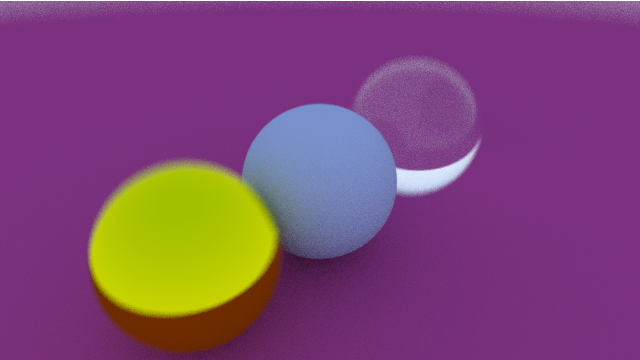
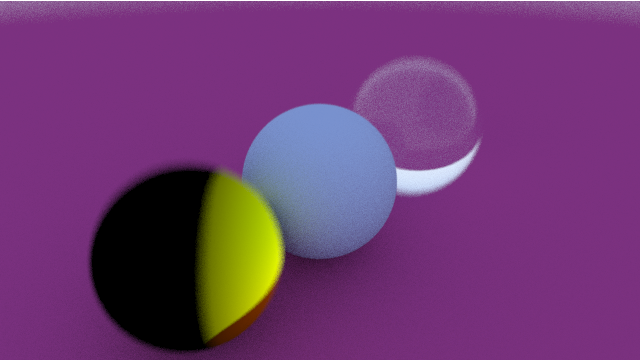
add lights, broken Metal implementation

Changed region(s): [[0.125, 0.4278, 0.4688, 1.0]]

diff --git a/src/main.cpp b/src/main.cpp
@@ -1,3 +1,4 @@
+#include "world/light_list.h"
 #define STB_IMAGE_IMPLEMENTATION
 #include "stb_image/stb_image.h"
 #define STB_IMAGE_WRITE_IMPLEMENTATION
@@ -13,22 +14,25 @@
 #include "camera/ray.h"
 #include "world/geometry/sphere.h"
 #include "world/material.h"
+#include "world/light.h"
+#include "world/light_list.h"
 #include "utils/rtweekend.h"
 #include "world/hittable.h"
 #include "world/hittable_list.h"
 
 /**
- * @brief Computes the ray's color based on Whitted ray tracing with
+ * @brief Computes the ray's color without defined lighting.
  * 
  * @param r Ray
  * @param world Hittable
  * @param depth Number of layers of recursion allowed left.
  * @return Color of ray's pixel
- */
-Color ray_color(const Ray& r, const Hittable& world, int depth) {
+Color ray_color(const Ray& r, const HittableList& world, int depth) {
 	HitRecord rec;
+	shared_ptr<Hittable> hitobj;
 	if (depth <= 0) return BLACK;
-	if (world.hit(r, 0.001, INFTY, rec)) {
+	bool is_hit = world.hit(r, 0.001, INFTY, rec, hitobj);
+	if (is_hit) {
 		Color attenuation;
 		Ray scattered;
 		if (rec.mat_ptr->scatter(r, rec, attenuation, scattered))
@@ -36,6 +40,30 @@ Color ray_color(const Ray& r, const Hittable& world, int depth) {
 		return BLACK;
 	}
 	// If no objects were intersected,get color from the sky.
+	vec3 unit_direction = unit_vector(r.direction());
+	auto t = 0.5 * (unit_direction.y() + 1.0);
+	return (1.0-t)*WHITE + t*BLUE;
+}
+ */
+
+Color ray_color_lit_scene(const Ray& r, const HittableList& world, const LightList& lightlist, int depth) {
+	if (depth <= 0) return BLACK;
+	vector<shared_ptr<Light>> lights = lightlist.lights;
+	HitRecord rec;
+	shared_ptr<Hittable> hitobj;
+	bool is_hit = world.hit(r, 0.001, INFTY, rec, hitobj);
+	if (is_hit) {
+		Color attenuation = BLACK;
+		Ray scattered;
+		bool isok = false;
+		for (auto light : lights) {
+			Color I_s = light->lit(world, hitobj, rec, 0.001, INFTY);
+			isok = rec.mat_ptr->scatter(r, rec, I_s, light->pos, attenuation, scattered);
+		}
+		if (!isok) return BLACK;
+		return attenuation * ray_color_lit_scene(scattered, world, lightlist, depth-1);
+	}
+	// If no objects were intersected, get color from the sky.
 	vec3 unit_direction = unit_vector(r.direction());
 	auto t = 0.5 * (unit_direction.y() + 1.0);
 	return (1.0-t)*WHITE + t*BLUE;
@@ -53,6 +81,8 @@ int main(int argc, char **argv) {
 	
 	// World
 	HittableList world = threeBallsWorld();
+	LightList lightlist;
+	lightlist.add(make_shared<PointLight>(vec3(1.0, 1.0, 10.0), WHITE));
 
 	// Image config
 
@@ -86,7 +116,7 @@ int main(int argc, char **argv) {
 				double u = (double(col) + random_double()) / (image_width - 1);
 				double v = (double(row) + random_double()) / (image_height - 1);
 				Ray r = cam.get_ray(u, v);
-				pixel_color += ray_color(r, world, max_depth);
+				pixel_color += ray_color_lit_scene(r, world, lightlist, max_depth);
 			}
 			int *cols = getIntColor(pixel_color, samples_per_pixel);
 			for (int c = 0; c < channels; c++) {

diff --git a/src/world/material.h b/src/world/material.h
@@ -22,7 +22,8 @@ public:
      * @return true if scattered ray is valid
      * @return false otherwise
      */
-    virtual bool scatter(const Ray& r_in, const HitRecord& rec, Color& attenuation, Ray& scattered) const = 0;
+    virtual bool scatter(const Ray& r_in, const HitRecord& rec, const Color& light_color,
+        const vec3& light_pos, Color& attenuation, Ray& scattered) const = 0;
 };
 
 class Lambertian : public Material {
@@ -30,7 +31,7 @@ public:
     Lambertian(const Color& a) : albedo(a) {}
 
     virtual bool scatter(
-        const Ray& r_in, const HitRecord& rec, Color& attenuation, Ray& scattered
+        const Ray& r_in, const HitRecord& rec, const Color& light_color, const vec3& light_pos, Color& attenuation, Ray& scattered
     ) const override {
         auto scatter_direction = rec.normal + random_unit_vector();
         if (scatter_direction.near_zero()) 
@@ -46,19 +47,28 @@ public:
 
 class Metal : public Material {
 public:
-    Metal(const Color& a) : albedo(a) {}
+    Metal(const Color& k_a, const Color& k_d, const Color& k_s, int n) : ambient(k_a), diffuse(k_d), specular(k_s), specular_exp(n) {}
 
     virtual bool scatter(
-        const Ray& r_in, const HitRecord& rec, Color& attenuation, Ray& scattered
+        const Ray& r_in, const HitRecord& rec, const Color& light_color, const vec3& light_pos, Color& attenuation, Ray& scattered
     ) const override {
-        auto reflection = rec.normal + reflect(unit_vector(r_in.direction()), rec.normal);
-        scattered = Ray(rec.p, reflection);
-        attenuation = albedo;
-        return dot(reflection, rec.normal) > 0;
+        auto N = unit_vector(rec.normal);
+        auto L = unit_vector(light_pos - rec.p);
+        auto NdotL = std::max(0.0, dot(N, L));
+
+        auto R = reflect(-L, N);
+        auto V = unit_vector(r_in.direction());
+        auto RdotV = std::max(0.0, dot(R, V));
+        scattered = Ray(rec.p, R);
+        attenuation += ambient + light_color * (diffuse * NdotL + specular * pow(RdotV, specular_exp));
+        return NdotL > 0;
     }
 
 public:
-    Color albedo;
+    Color ambient;
+    Color diffuse;
+    Color specular;
+    int specular_exp;
 };
 
 class Dielectric : public Material {
@@ -66,7 +76,7 @@ public:
     Dielectric(const double& refraction_index) : ir(refraction_index) {}
 
     virtual bool scatter(
-        const Ray& r_in, const HitRecord& rec, Color& attenuation, Ray& scattered
+        const Ray& r_in, const HitRecord& rec, const Color& light_color, const vec3& light_pos, Color& attenuation, Ray& scattered
     ) const override {
         attenuation = Color(1.0, 1.0, 1.0);
         double refraction_ratio = rec.front_face ? (1.0/ir) : ir;

diff --git a/src/world/hittable_list.h b/src/world/hittable_list.h
@@ -1,6 +1,8 @@
 #ifndef HITTABLE_LIST_H
 #define HITTABLE_LIST_H
+#include <functional>
 #include <memory>
+#include <optional>
 #include <vector>
 
 #include "geometry/sphere.h"
@@ -16,15 +18,11 @@ using std::vector;
  * @brief List of hittables to go through to find the front-most.
  * 
  */
-class HittableList : public Hittable {
+class HittableList {
 public:
-    HittableList() {}
-    HittableList(shared_ptr<Hittable> object) {
-    }
-
     void add(shared_ptr<Hittable> object) { objects.push_back(object); }
     void clear() { objects.clear(); }
-    virtual bool hit(const Ray& r, double tmin, double tmax, HitRecord& h) const override;
+    bool hit(const Ray& r, double tmin, double tmax, HitRecord& rec, shared_ptr<Hittable> hitobj) const;
     bool shadowed(const Ray& shadow, double tmin, double tmax, shared_ptr<Hittable> const &hittable) const;
 
 public:
@@ -39,7 +37,7 @@ public:
 inline HittableList threeBallsWorld() {
 	shared_ptr<Material> mat_ground = make_shared<Lambertian>(0.5 * RED);
 	shared_ptr<Material> mat_center = make_shared<Lambertian>(0.6 * BLUE + 0.1 * RED);
-	shared_ptr<Material> mat_left = make_shared<Metal>(0.8 * YELLOW);
+	shared_ptr<Material> mat_left = make_shared<Metal>(0.2 * YELLOW, YELLOW, WHITE, 16);
 	shared_ptr<Material> mat_right = make_shared<Dielectric>(1.5);
 
 	HittableList world;

diff --git a/src/world/hittable_list.cpp b/src/world/hittable_list.cpp
@@ -1,4 +1,7 @@
+#include <cstddef>
+#include <functional>
 #include <memory>
+#include <optional>
 #include <vector>
 
 #include "hittable.h"
@@ -16,21 +19,23 @@
  * @return true if the ray has hit something
  * @return false otherwise
  */
-bool HittableList::hit(const Ray& r, double tmin, double tmax, HitRecord& h) const {
+bool HittableList::hit(const Ray& r, double tmin, double tmax, HitRecord& rec, shared_ptr<Hittable> hitobj) const {
+    if (objects.size() == 0) return false;
     HitRecord temp_rec;
-    bool hit_something = false;
     double tclosest = tmax;
+    bool isHit = false;
 
     for (const auto& object : objects) {
         // the hit method from the pointer to the object
         if (object->hit(r, tmin, tclosest, temp_rec)) {
-            hit_something = true;
-            h = temp_rec;
+            rec = temp_rec;
+            hitobj = object;
             tclosest = temp_rec.t;
+            isHit = true;
         }
     }
 
-    return hit_something;
+    return isHit;
 }
 
 bool HittableList::shadowed(const Ray &shadow, double tmin, double tmax,

diff --git a/src/world/light.h b/src/world/light.h
@@ -10,7 +10,7 @@
  * 
  */
 class Light {
-
+public:
     /**
      * @brief Returns the luminance of this light source.
      * 
@@ -23,23 +23,25 @@ class Light {
      */
     virtual Color lit(const HittableList& world, shared_ptr<Hittable> const &object,
         const HitRecord& rec, double tmin, double tmax) const = 0;
+
+    vec3 pos;
 };
 
 class PointLight: public Light {
 public:
-    PointLight(vec3& p, const Color& c) : pos(p), color(c) {}
+    PointLight(const vec3& p, const Color& c) : pos(p), color(c) {}
     
-    virtual Color lit(const HittableList &world, const shared_ptr<Hittable> &object, 
+    virtual Color lit(const HittableList &world, const shared_ptr<Hittable> &object,
         const HitRecord &rec, double tmin, double tmax
     ) const override {
         Ray shadow(pos, pos - rec.p);
         bool shadowed = world.shadowed(shadow, tmin, tmax, object);
         if (shadowed) return BLACK;
-        else return color;
+        return color;
     }
+    vec3 pos;
 
 private:
-    vec3 pos;
     Color color;
 };
 

diff --git a/src/world/light_list.h b/src/world/light_list.h
@@ -1,0 +1,19 @@
+#ifndef LIGHT_LIST_H
+#define LIGHT_LIST_H
+
+#include <memory>
+#include <vector>
+
+#include "light.h"
+
+using std::shared_ptr;
+using std::vector;
+
+class LightList {
+public:
+    void add(shared_ptr<Light> light) { lights.push_back(light); }
+    void clear() { lights.clear(); }
+    vector<shared_ptr<Light>> lights;
+};
+
+#endif
